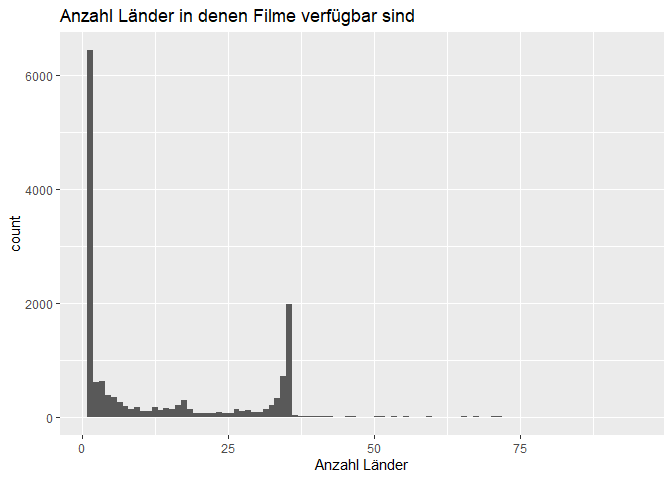
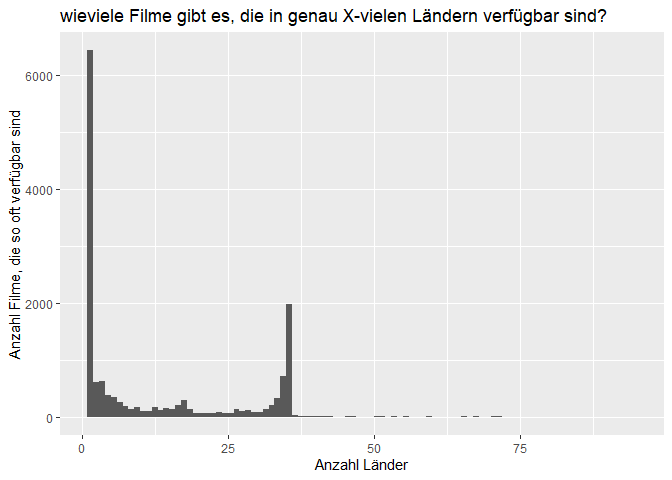
länder vs genres (ich mach morgen sauber)

Changed region(s): [[0.0938, 0.0, 0.9062, 0.0625], [0.0, 0.2188, 0.0312, 0.75]]

diff --git a/Bericht_Henke_Keil_Reichmann.md b/Bericht_Henke_Keil_Reichmann.md
@@ -49,9 +49,21 @@ title_country <- data%>%
   separate_rows(country, sep = ",") %>% 
   drop_na()
 
+
 n_ger <- (title_country %>%
             filter(country == "Germany") %>%
             count())$n
+
+
+title_country%>%
+  count(country)%>%
+  select(n, country)%>%
+  ggplot(aes(x = n, y = reorder(country, n), colour = n))+
+  geom_point()+
+  labs(title = "Anzahl verfügbarer Filme in verschiedenen Ländern",
+       x = "Anhahl der Filme", 
+       y = " ")
+
 
 title_country %>%
   count(country) %>% 
@@ -67,31 +79,17 @@ title_country %>%
            angle = -90,
            vjust = -0.5) +
   labs(title = "Anzahl Filme die pro Land verfügbar sind",
-       y = "in so vielen Ländern",
-       x = "ist diese Anzahl Filme Verfügbar.")
-#+
-#  labs(title = "Anzahl Filme die pro Land verfügbar sind",
-#       x = "Anzahl Filme")
-
-
-
-title_country%>%
-  count(country)%>%
-  select(n, country)%>%
-  ggplot(aes(x = n, y = reorder(country, n), colour = n))+
-  geom_point()+
-  labs(title = "Anzahl verfügbarer Filme in verschiedenen Ländern",
-       x = "Anhahl der Filme", 
-       y = " ")
-
+       y = "ist in so vielen Ländern verfügbar",
+       x = "diese Anzahl Filme")
 
 
 title_country %>% 
   count(Title) %>%
   ggplot(mapping = aes(x = n)) +
   geom_histogram(boundary = 0, bins = 95) +
-  labs(title = "Anzahl Länder in denen Filme verfügbar sind",
-       x = "Anzahl Länder")
+  labs(title = "wieviele Filme gibt es, die in genau X-vielen Ländern verfügbar sind?",
+       x = "Anzahl Länder",
+       y = "Anzahl Filme, die so oft verfügbar sind")
 ```
 
 ![](Bericht_Henke_Keil_Reichmann_files/figure-gfm/unnamed-chunk-2-1.png)![](Bericht_Henke_Keil_Reichmann_files/figure-gfm/unnamed-chunk-2-2.png)![](Bericht_Henke_Keil_Reichmann_files/figure-gfm/unnamed-chunk-2-3.png)
@@ -132,3 +130,114 @@ data %>%
 ```
 
 ![](Bericht_Henke_Keil_Reichmann_files/figure-gfm/unnamed-chunk-3-1.png)![](Bericht_Henke_Keil_Reichmann_files/figure-gfm/unnamed-chunk-3-2.png)
+
+plots zu country und genere
+
+``` r
+# vektoren mit zeilennamen zum angenehmen kopieren
+# c(colnames(data))
+
+columns_data = c("Title", "Genre" ,"Tags", "Languages", "Series or Movie", "Hidden Gem Score", "Country Availability", "Runtime", "Director", "Writer", "Actors", "View Rating", "IMDb Score", "Rotten Tomatoes Score", "Metacritic Score", "Awards Received", "Awards Nominated For", "Boxoffice", "Release Date", "Netflix Release Date", "Production House", "Netflix Link", "IMDb Link", "Summary", "IMDb Votes", "Image", "Poster", "TMDb Trailer", "Trailer Site")
+
+columns_countries = c("Argentina", "Australia", "Belgium", "Brazil", "Canada", "Colombia", "Czech Republic", "France", "Germany", "Greece", "Hong Kong", "Hungary", "Iceland", "India", "Israel", "Italy", "Japan", "Lithuania", "Malaysia", "Mexico", "Netherlands", "Poland", "Portugal", "Romania", "Russia", "Singapore", "Slovakia", "South Africa", "South Korea", "Spain", "Sweden", "Switzerland", "Thailand", "Turkey", "United Kingdom", "United States")
+
+columns_generes = c("Action", "Adult", "Adventure", "Animation", "Biography", "Comedy", "Crime", "Documentary", "Drama", "Family", "Fantasy", "Film-Noir", "Game-Show", "History", "Horror", "Music", "Musical", "Mystery", "News", "Reality-TV", "Romance", "Sci-Fi", "Short", "Sport", "Talk-Show", "Thriller", "War", "Western")
+
+#-------------------------------------------------------
+
+unimportand = c("Tags", "Languages", "Series or Movie", "Hidden Gem Score", "Runtime", "Director", "Writer", "Actors", "View Rating", "IMDb Score", "Rotten Tomatoes Score", "Metacritic Score", "Awards Received", "Awards Nominated For", "Boxoffice", "Release Date", "Netflix Release Date", "Production House", "Netflix Link", "IMDb Link", "Summary", "IMDb Votes", "Image", "Poster", "TMDb Trailer", "Trailer Site", "<NA>")
+
+sort_by_genre <- data%>%
+  mutate("Yes" = TRUE)%>%
+  separate_rows(Genre, sep = ", ")%>%
+  spread(key = Genre, value = Yes)%>%
+  select(Title, `Country Availability`, columns_generes)
+#sort_by_genre
+
+sort_by_country <- data%>%
+  mutate("Yes" = TRUE)%>%
+  separate_rows(`Country Availability`, sep = ",")%>%
+  spread(key = `Country Availability`, value = Yes)%>%
+  select(Title, Genre, columns_countries)
+#sort_by_country
+#----------------------
+
+weltweit = sort_by_country%>%
+  separate_rows(Genre, sep = ",")%>%
+  ggplot(aes(y = reorder(Genre, Genre)))+
+  geom_histogram(stat="count")+
+  labs(title = "Weltweit",
+       x = "Anzahl dieses Generes", 
+       y = " ")
+weltweit
+
+germany <- sort_by_country%>%
+  separate_rows(Genre, sep = ",")%>%
+  filter(Germany == TRUE)%>%
+  ggplot(aes(y = reorder(Genre, Genre)))+
+  geom_histogram(stat="count", colour = "green")+
+  labs(title = "Germany",
+       x = "Anzahl dieses Generes", 
+       y = " ")
+
+  germany
+
+germany <- sort_by_country%>%
+  separate_rows(Genre, sep = ",")%>%
+  filter(Germany == TRUE)%>%
+  count(Genre)%>%
+  ggplot()+
+  geom_point(aes(x = n, y = reorder(Genre, Genre)), colour = "green")
+germany
+#------------------------
+weltweit = sort_by_country%>%
+  separate_rows(Genre, sep = ",")%>%
+  count(Genre)%>%
+  drop_na()
+weltweit
+```
+
+    ## # A tibble: 55 x 2
+    ##    Genre              n
+    ##    <chr>          <int>
+    ##  1 " Action"        628
+    ##  2 " Adventure"    1380
+    ##  3 " Animation"      16
+    ##  4 " Biography"     203
+    ##  5 " Comedy"       1670
+    ##  6 " Crime"        1216
+    ##  7 " Documentary"     2
+    ##  8 " Drama"        3792
+    ##  9 " Family"       1316
+    ## 10 " Fantasy"      1529
+    ## # ... with 45 more rows
+
+``` r
+#---------------------
+total_specific <- sort_by_country%>%
+  count(France == TRUE)%>%
+  drop_na()%>%
+  select(n)
+
+specific_country <- sort_by_country%>%
+  separate_rows(Genre, sep = ",")%>%
+  filter(Germany == TRUE)%>%
+  count(Genre)%>%
+  drop_na
+
+sum(specific_country$n)
+```
+
+    ## [1] 13050
+
+``` r
+ggplot(NULL, aes(x = n, y = reorder(Genre, Genre))) +    # Draw ggplot2 plot based on two data frames
+  geom_col(data = weltweit) +
+  geom_point(data = specific_country, col = "blue")+
+  labs(title = "Weltweit",
+       x = "Anzahl dieses Generes", 
+       y = " ")
+#------------------------
+```
+
+![](Bericht_Henke_Keil_Reichmann_files/figure-gfm/unnamed-chunk-4-1.png)![](Bericht_Henke_Keil_Reichmann_files/figure-gfm/unnamed-chunk-4-2.png)![](Bericht_Henke_Keil_Reichmann_files/figure-gfm/unnamed-chunk-4-3.png)![](Bericht_Henke_Keil_Reichmann_files/figure-gfm/unnamed-chunk-4-4.png)
